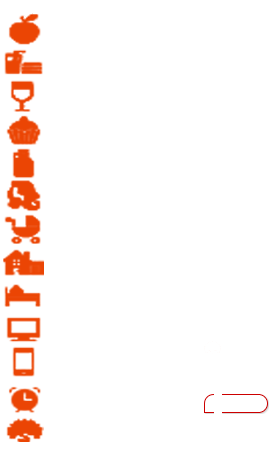
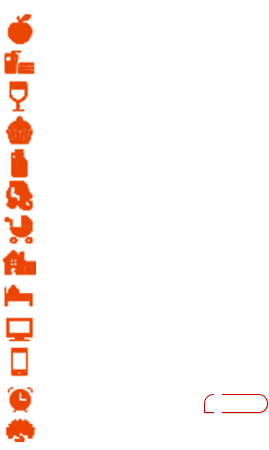
1 修改分类图标大小

Changed region(s): [[0.0, 0.0311, 0.1784, 0.9956]]

diff --git a/views/mobile/skin/black/css/wap/index.css b/views/mobile/skin/black/css/wap/index.css
@@ -119,15 +119,15 @@ display: block;float: left;/*margin: 10px 0 0 5px;*/margin: 5px 0 0 5px;}
 .sortList .icon8{background-position: -326px -5px;}
 .sortList .icon9{background-position: -374px -5px;}
 /*分类页图标问题*/
-.sortList .icons1{background-position: -9px -145px;}
-.sortList .icons2{background-position: -9px -178px;}
-.sortList .icons3{background-position: -9px -379px;}
-.sortList .icons4{background-position: -9px -9px;}
-.sortList .icons5{background-position: -9px -45px;}
-.sortList .icons6{background-position: -9px -413px;}
-.sortList .icons7{background-position: -9px -112px;}
-.sortList .icons8{background-position: -9px -311px;}
-.sortList .icons9{background-position: -9px -342px;}
+.sortList .icons1{background-position: -6px -145px;}
+.sortList .icons2{background-position: -6px -178px;}
+.sortList .icons3{background-position: -6px -379px;}
+.sortList .icons4{background-position: -6px -9px;}
+.sortList .icons5{background-position: -6px -45px;}
+.sortList .icons6{background-position: -6px -413px;}
+.sortList .icons7{background-position: -6px -112px;}
+.sortList .icons8{background-position: -6px -311px;}
+.sortList .icons9{background-position: -6px -342px;}
 /* ------------- Retina ------------- */
 @media only screen and (-o-min-device-pixel-ratio: 2/1),
        only screen and (min--moz-device-pixel-ratio: 2),
